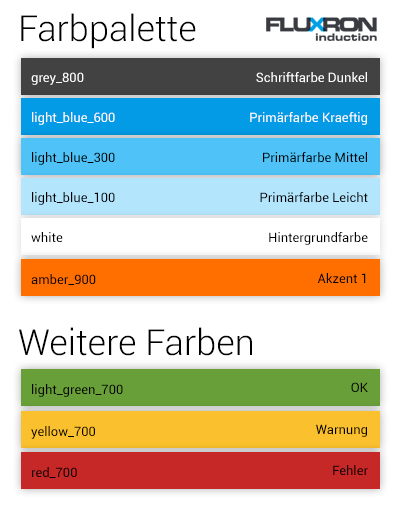
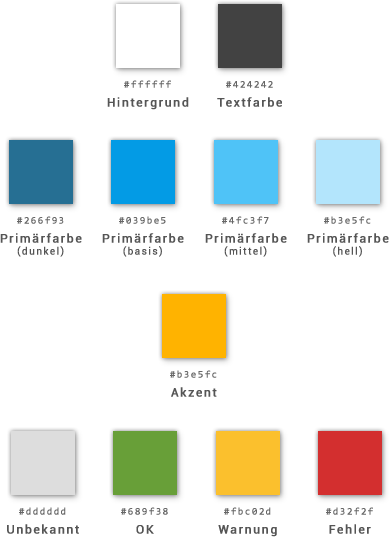
Changed the chapters for the colors to look better

diff --git a/uiux/colorsAndShapes.tex b/uiux/colorsAndShapes.tex
@@ -8,7 +8,7 @@
 \begin{figure}[H]
     \begin{center}
     		% GFX Trim left bottom right top
-        \includegraphics[trim=0 200 0 50,clip,scale=0.7]{uiux/res/basic_colors}
+        \includegraphics[trim=0 130 0 0,clip,scale=0.5]{uiux/res/basic_colors}
     \end{center}
     \caption{Grundlegende Farben der App}
 \end{figure}
@@ -19,16 +19,16 @@ Die Farbgebung inspiriert sich am Logo der Firma Fluxron. Ein weisser Hintergrun
 \begin{figure}[H]
     \begin{center}
     		% GFX Trim left bottom right top
-        \includegraphics[trim=0 0 0 370,clip,scale=0.7]{uiux/res/basic_colors}
+        \includegraphics[trim=0 0 0 420,clip,scale=0.5]{uiux/res/basic_colors}
     \end{center}
     \caption{Farben zur Statusanzeige}
 \end{figure}
 Zur Anzeige von Statusinformationen wird ein klassisches Ampel-Farbschema angewendet. Dieses soll durch die Nutzung von Symbolen unterstützt werden um die Accessibility zu verbessern. Diese Farben sollten nur für kleine Flächen genutzt werden.
 
-\subsection{Symbole zur Statusanzeige}
-\label{subsec:Symbole zur Statusanzeige}
+\subsection{Symbole}
+\label{subsec:Symbole}
 
-Um die Usability zu erhöhen werden neben den Farben auch Symbole zur besseren Kommunikation des Status verwendet. Abbildung \ref{abb:statusSymbols} zeigt eine Auflistung dieser Symbole.
+Um die Usability zu erhöhen werden neben den Farben auch Symbole zur besseren Kommunikation verwendet. Abbildung \ref{abb:statusSymbols} zeigt eine Auflistung dieser Symbole.
 
 \vspace{0.5cm}
 
@@ -40,3 +40,5 @@ Um die Usability zu erhöhen werden neben den Farben auch Symbole zur besseren K
     \caption{Symbole zur Statusanzeige}
     \label{abb:statusSymbols}
 \end{figure}
+
+\pagebreak

diff --git a/uiux/mockups.tex b/uiux/mockups.tex
@@ -132,6 +132,3 @@ Auch die Statistikseite kann von Gerätetyp zu Gerätetyp variieren.
 In der Fehlerhistorie werden dem Benutzer die letzten zehn Fehlercodes des Gerätes angezeigt. Diese Bestehen aus einem Fehlercode und einem beschreibenden Text. Zudem wird der Laufzeitzähler des Gerätes zum Fehlerzeitpunkt ausgegeben. Das heisst, für jeden Fehler kann nachgesehen werden, in welcher Laufzeitstunde (ab Installationszeitpunkt) der Fehler aufgetreten ist.
 
 Einzelne Gerätetypen wie z.B. Thermostaten haben weniger oder mehr Fehlercodes in der Historie.
-
-\WFclear
-\vspace{2cm}
